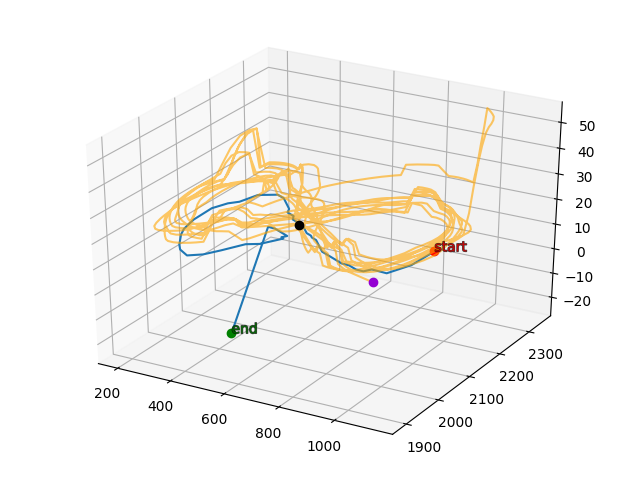
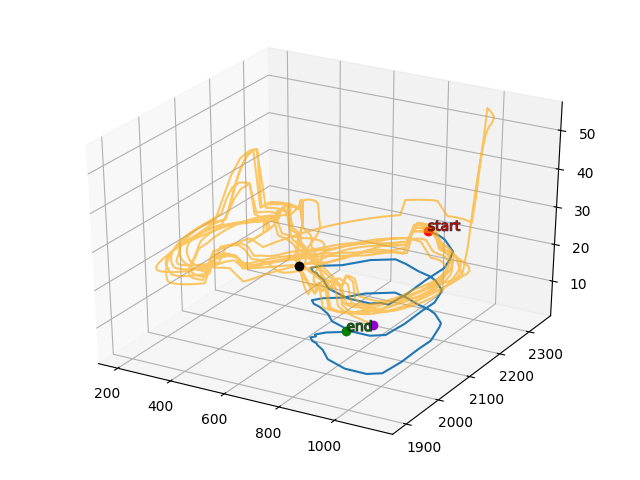
3.4: fixed activity function

diff --git a/project_3/task3.4/task3.4.py b/project_3/task3.4/task3.4.py
@@ -54,13 +54,17 @@ def get_data(filename):
         return np.array(data, dtype=np.float)
 
 
-def get_activities(user_state_file):
+def get_activities(user_state_file, path):
     data = get_data(user_state_file)
-    activities = np.full([len(data), 3], -1, dtype=np.float)
-    for i in range(len(data)-1):
+
+    a_len = len(data)-1
+    activities = np.full([a_len, 3], -1, dtype=np.float)
+    for i in range(a_len):
         activities[i] = data[i+1] - data[i]
-    # connect the last and the first coordinates
-    activities[len(data)-1] = data[0] - data[-1]
+
+    # connect the last and the first coordinates if path=='path1'
+    if path == 'path1':
+        activities = np.vstack([activities, data[0] - data[-1]])
     return activities
 
 
@@ -97,7 +101,7 @@ def getCluster(x, neurons):
 
 def jointProbabilities(x, activities, neurons, kmean):
     joint = np.zeros([len(neurons), len(kmean.cluster_centers_)], dtype=np.int)
-    for index in range(len(x)):
+    for index in range(len(activities)):
         i = getCluster(x[index], neurons)
         j = getCluster(activities[index], kmean.cluster_centers_)
         joint[i, j] += 1
@@ -227,7 +231,7 @@ def analyze(path, user_state_file, neurons_state_file, n_clusters, iterations,
 
     x = get_data(user_state_file)
     neurons = get_data(neurons_state_file)
-    activities = get_activities(user_state_file)
+    activities = get_activities(user_state_file, path)
     kmean = KMeans(n_clusters=n_clusters,
                    random_state=0,
                    max_iter=iterations).fit(activities)
@@ -277,8 +281,8 @@ if __name__ == '__main__':
             N_CLUSTERS.n60,
             ITERATIONS.n10000,
             plot_origin=True)
-    # ANALYSIS FOR PATH 2
 
+    # ANALYSIS FOR PATH 2
     analyze(PATHS.path2, USER_STATE_FILE,
             NEURONS_FILE.n10,
             N_CLUSTERS.n10,
